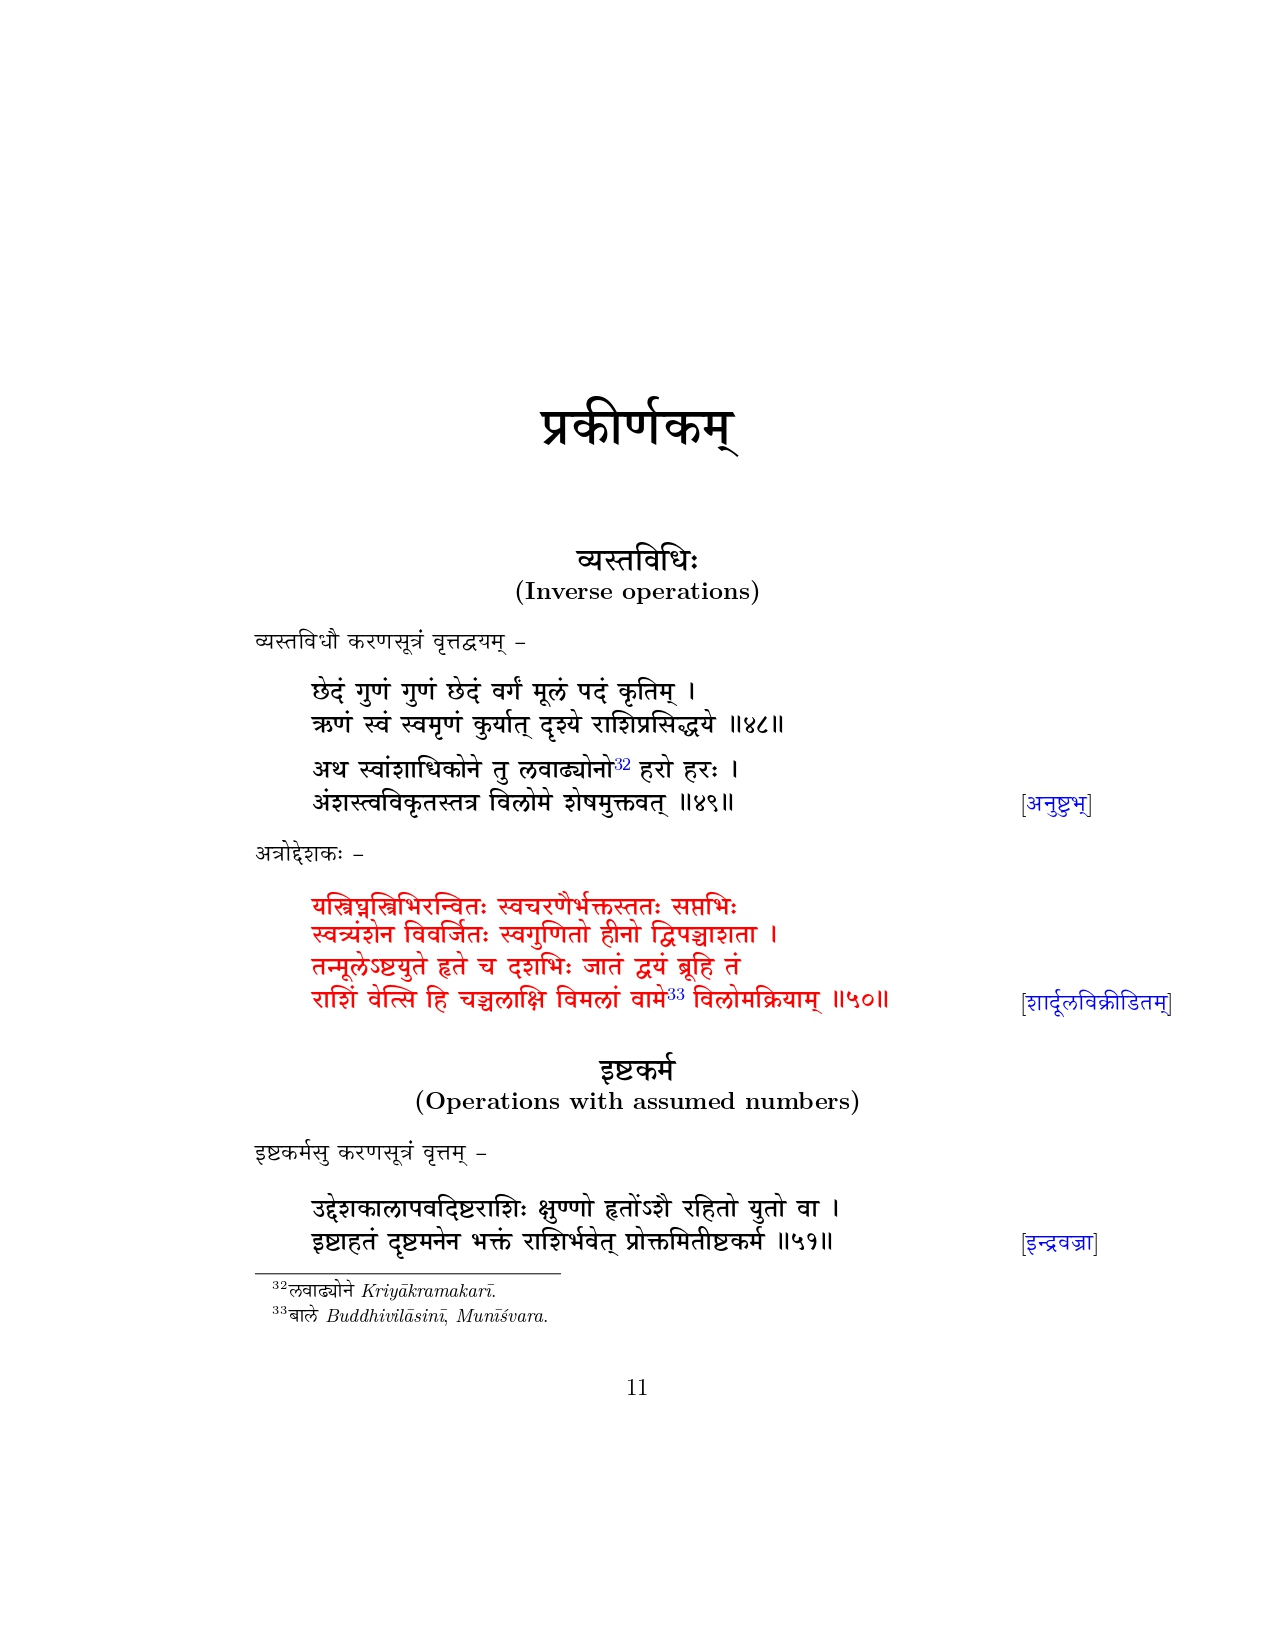
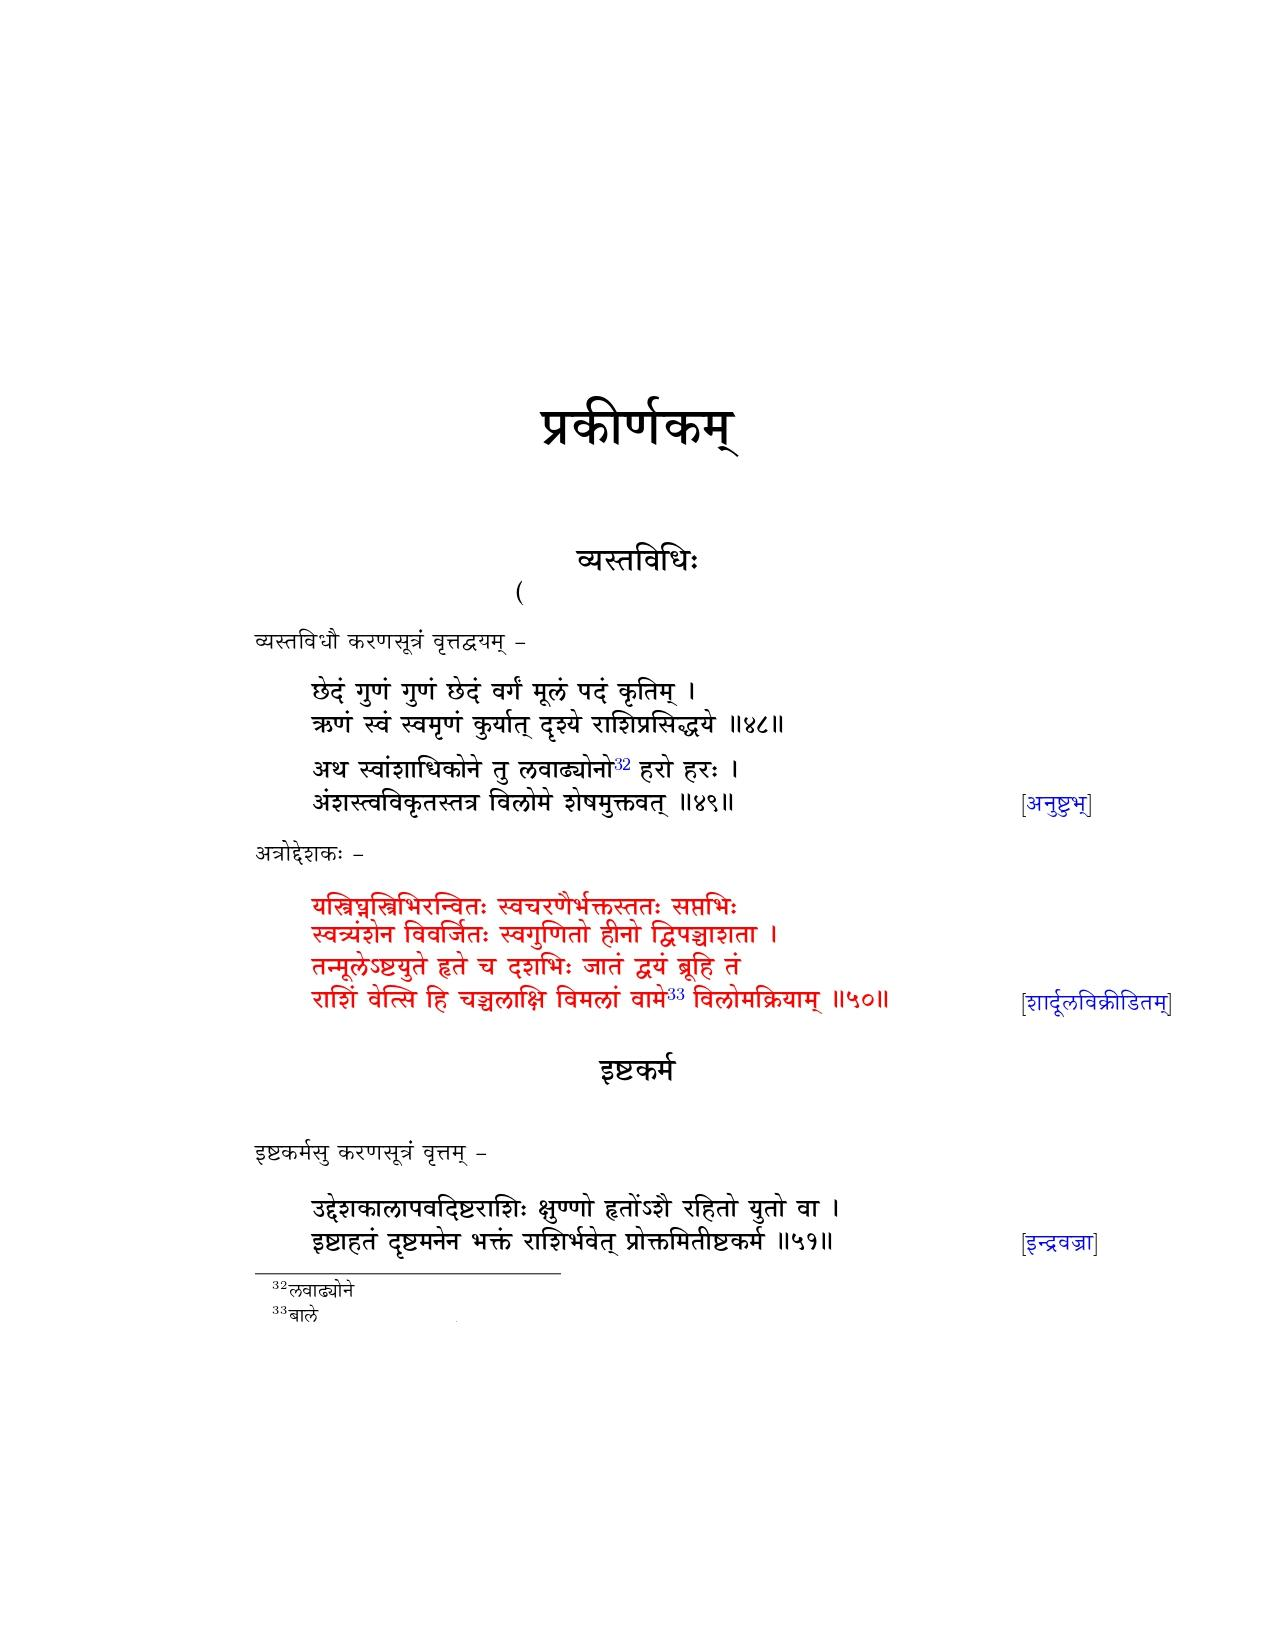
v1

diff --git a/EasyOCR.py b/EasyOCR.py
@@ -10,8 +10,8 @@ def getOCRListCoordinates(path):
     reader = easyocr.Reader(['hi', 'mr'])
 
 
-    Bounds = reader.readtext(path, text_threshold=0.5, contrast_ths=0.35, adjust_contrast=0.05, add_margin=0.1,
-                             width_ths=1.5, decoder='wordbeamsearch')
+    Bounds = reader.readtext(path, text_threshold=0.75, contrast_ths=0.5, adjust_contrast=0.05, add_margin=0.1,
+                             width_ths=4, decoder='wordbeamsearch')
     finalList = []
 
     # coordinateslist contains the coordinates in the format that is required for the assignment
@@ -38,25 +38,25 @@ def getOCRListCoordinates(path):
 
 
     #Debugging
-    # for i in clist:
-    #     print(i)
+    for i in coordinatesList:
+        print(i)
 
-    return clist
-
-
+    return clist,coordinatesList
 
 
 
-def draw_boxes(list_of_coordinates, img_path):
+
+
+def draw_boxes(list_of_coordinates, img_path,output_path):
     img = cv2.imread(img_path)
     for i in list_of_coordinates:
         start_point = (i[0], i[1])
         end_point = (i[2], i[3])
         cv2.rectangle(img, start_point, end_point, color=(0, 255, 0), thickness=2)
-    cv2.imwrite("output.jpg",img)
+    cv2.imwrite(output_path,img)
 
 
 # testing
-list = getOCRListCoordinates('Images/3.jpg')
-draw_boxes(list, 'Images/3.jpg')
+# list = getOCRListCoordinates('output.jpg')
+# draw_boxes(list, 'output.jpg','output.jpg')
 

diff --git a/Runner.py b/Runner.py
@@ -1,0 +1,47 @@
+from PreProcessor import removeEnglishWordsfromImage
+from EasyOCR import getOCRListCoordinates
+import os
+import json
+
+# Set the path to the folder containing the images
+folder_path = "Images"
+
+counter = 0
+# Loop over each file in the folder
+for filename in os.listdir(folder_path):
+    if not (filename.endswith('.jpg')):
+        continue
+    counter = counter + 1
+
+    # pre-process the image and store the output at the same location
+
+    removeEnglishWordsfromImage(f"Images/{filename}", f"Images/{filename}")
+
+    # get the coordinates of ROIs of the sanskrit detections
+    coordinatesList = getOCRListCoordinates(f"Images/{filename}")[1]
+
+    # traverse through each block
+    i_counter = 0
+    boxes={}
+    for i in coordinatesList:
+        i_counter = i_counter + 1
+        # Define the dictionary in the desired format
+
+        box = {
+                "top_left": [i[0][0], i[0][1]],
+                "top_right": [i[1][0], i[1][1]],
+                "bottom_right": [i[2][0], i[2][1]],
+                "bottom_left": [i[3][0], i[3][1]]
+        }
+
+        boxes[f"box{i_counter}"] = box
+
+    #convert dictionary to JSON
+    my_json = json.dumps(boxes, default=str)
+
+    #store the JSON
+    with open(f"Output_JSON/{counter}.json", "w") as f:
+        f.write(my_json)
+
+
+

diff --git a/PreProcessor.py b/PreProcessor.py
@@ -54,4 +54,4 @@ def removeEnglishWordsfromImage(path, path2):
 
 
 #testing
-removeEnglishWordsfromImage('Images/3.jpg', 'output.jpg')
+# removeEnglishWordsfromImage('Images/3.jpg', 'output.jpg')
